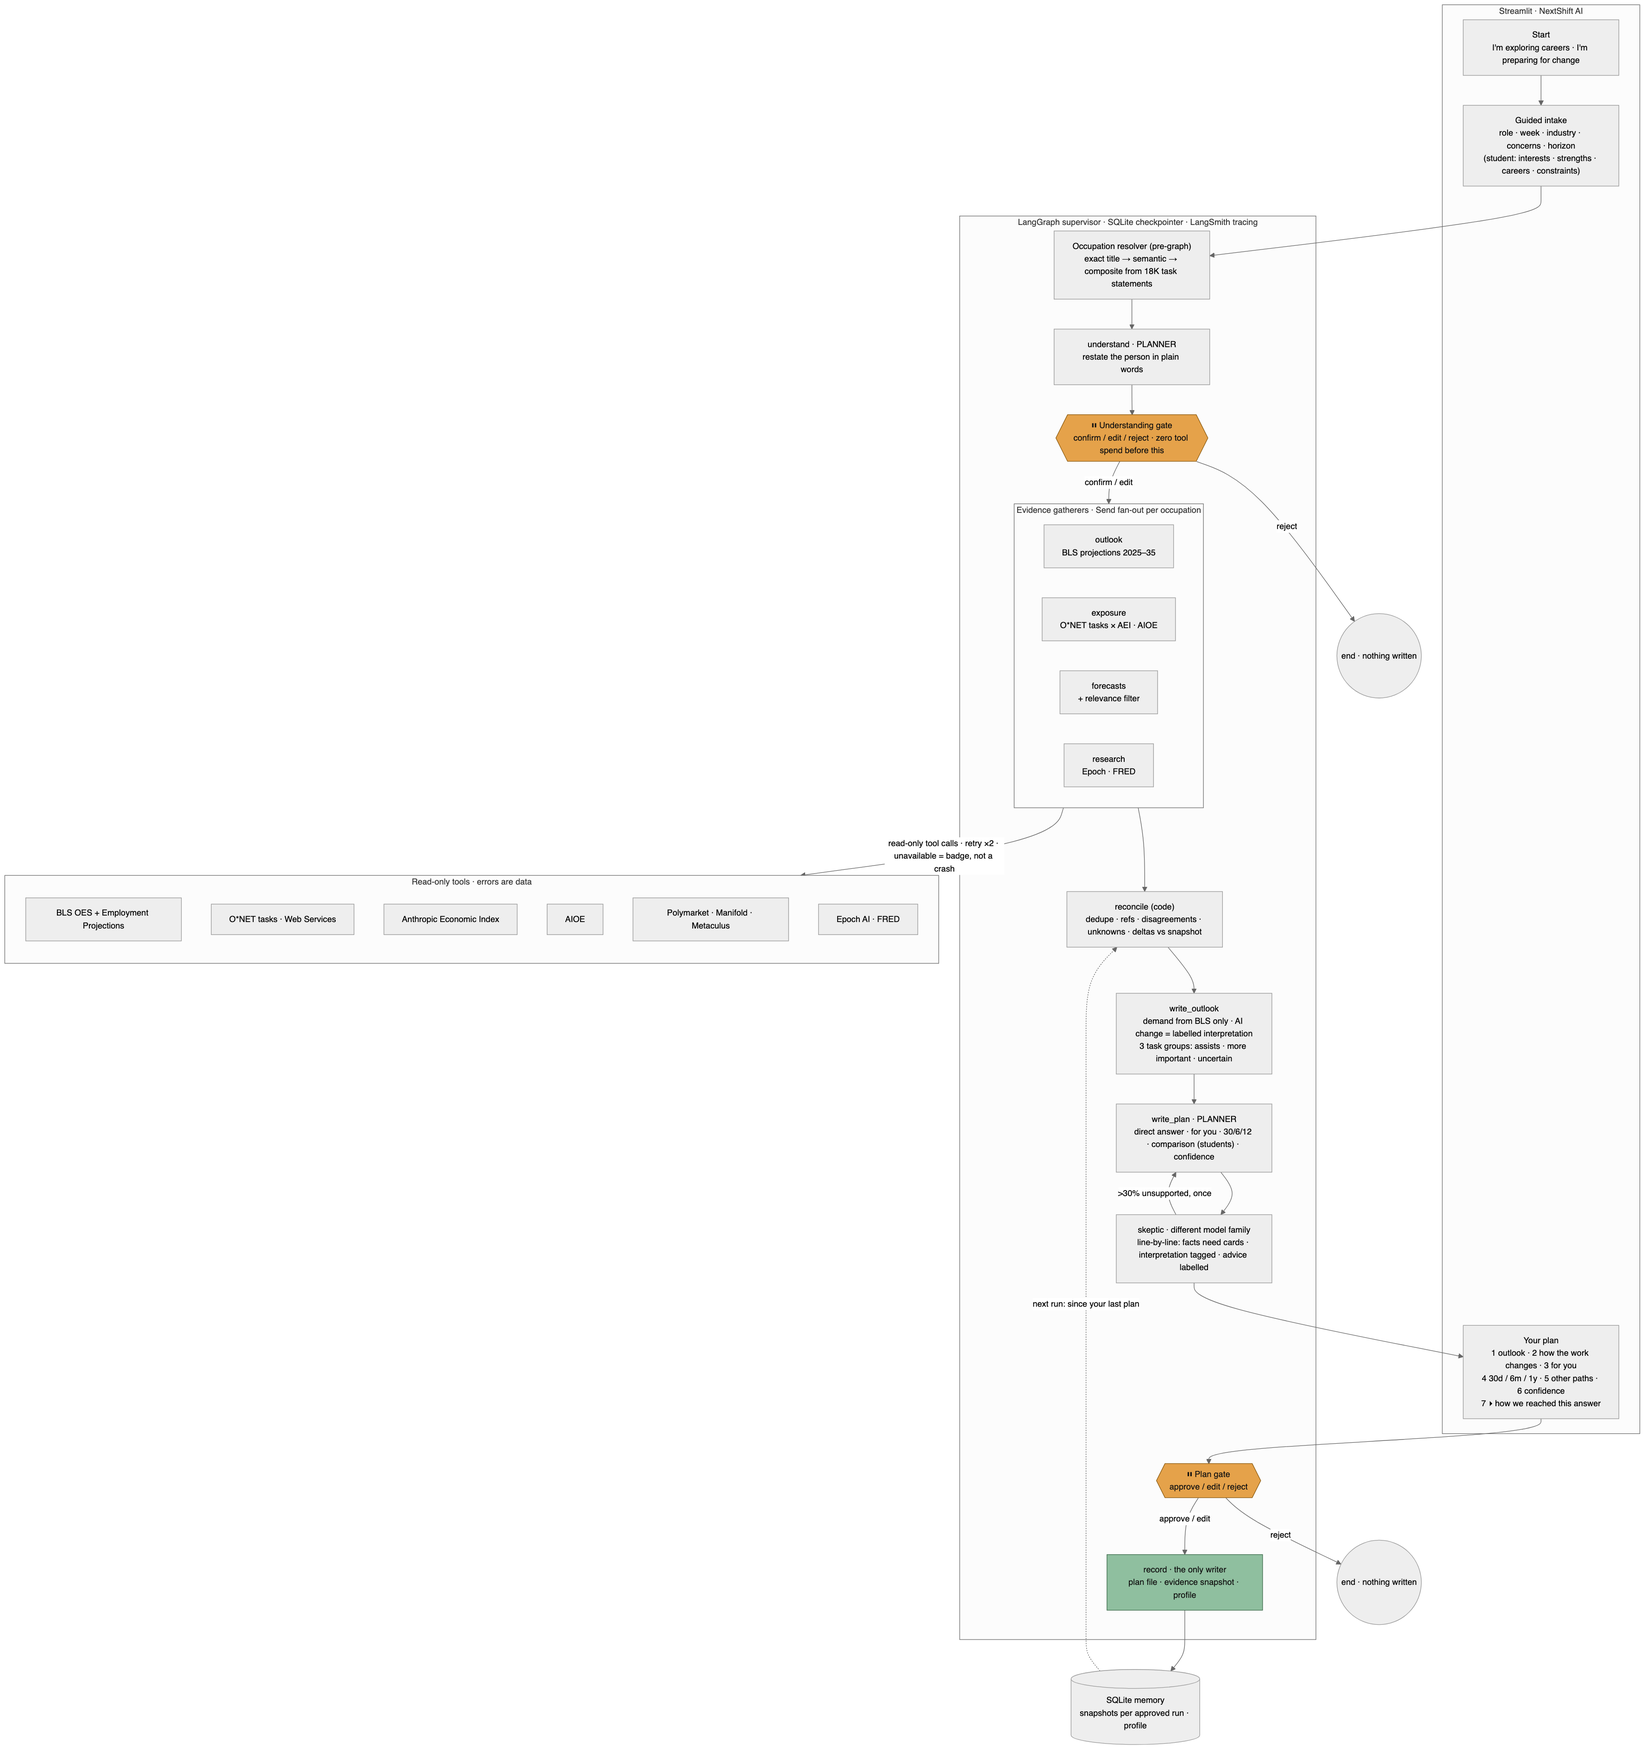
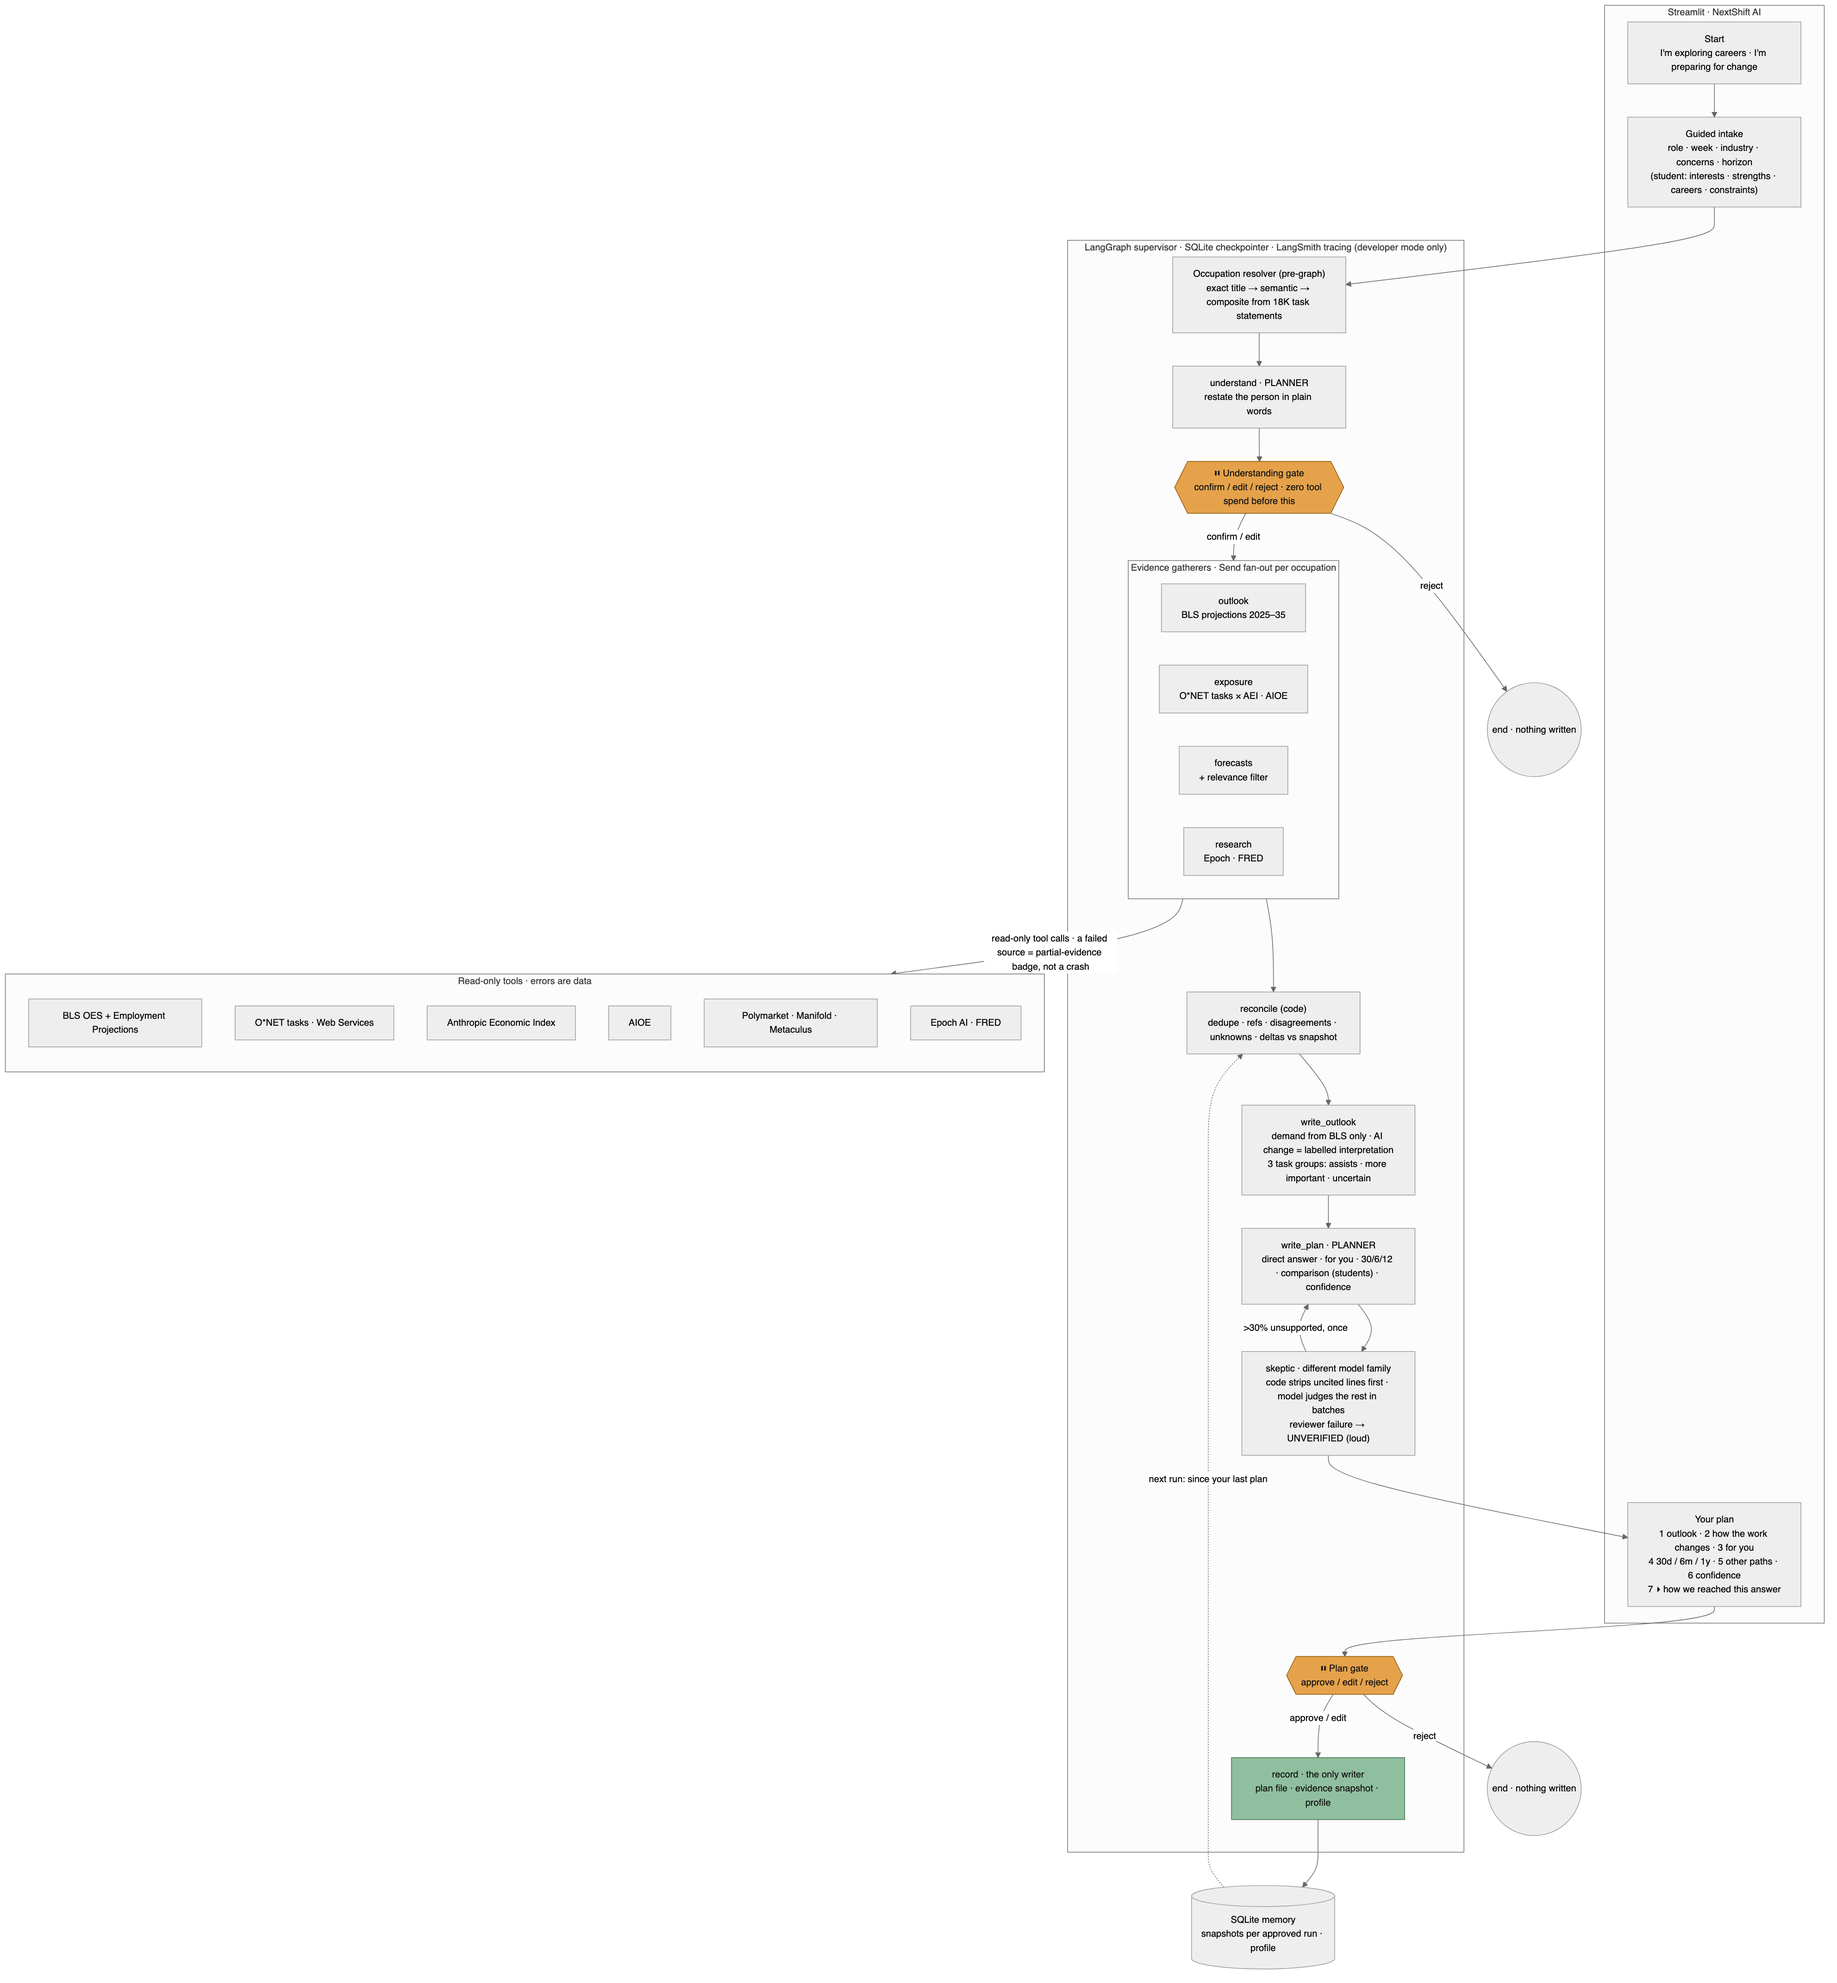
Phase 0: accurate privacy sentence in interview; archive scenario-tree diagram; correct and regenerate architecture diagrams

diff --git a/ui/student_ui.py b/ui/student_ui.py
@@ -44,7 +44,7 @@ def screen_interview(S):
     st.markdown("<span class='kicker' style='color:%s'>Exploring careers</span>" % C["student"], unsafe_allow_html=True)
     if p["turn"] == 1:
         st.markdown("## Let's figure out what kinds of work might fit you.")
-        st.markdown(f"<p class='muted'>You don't need to know what career you want yet. I'll ask one question at a time — about 8 to 12 — and then show you what I understood before suggesting anything.<br><span class='small'>{BOUNDARY} Nothing you type is stored until you approve it at the end; a first name is plenty.</span></p>", unsafe_allow_html=True)
+        st.markdown(f"<p class='muted'>You don't need to know what career you want yet. I'll ask one question at a time — about 8 to 12 — and then show you what I understood before suggesting anything.<br><span class='small'>{BOUNDARY} Nothing is added to your saved record until you approve it at the end; while you work, your answers are kept in a resumable session file on this computer. A first name is plenty.</span></p>", unsafe_allow_html=True)
     col, side = st.columns([3, 1.3])
     with side:
         st.markdown(f"<span class='small'>Question {p['turn']} of about {p['max_turns']}</span>", unsafe_allow_html=True); st.progress(min(p["turn"] / p["max_turns"], 1.0))

diff --git a/docs/PROJECT_DOC.md b/docs/PROJECT_DOC.md
@@ -1,6 +1,6 @@
 # NextShift AI — Week 3 project documentation
 *Maven · Mastering Agentic AI · Week 3 "Build Your AI Agent" · Judy Darvin · submitted 2026-08-30*
-*Paste into the Google Doc; sections follow the handout's required list (overview · datasets · prompts used · iterations · learnings). Diagram: `design/architecture-diagram.png`. Repo: https://github.com/judy-eapen/nextshift-ai*
+*Paste into the Google Doc; sections follow the handout's required list (overview · datasets · prompts used · iterations · learnings). Diagrams: `design/architecture-diagram.png` (professional) · `design/architecture-student.png` (student interviewer). Repo: https://github.com/judy-eapen/nextshift-ai*
 
 ---
 
@@ -28,7 +28,7 @@
 | **Never does** | Guarantee a job is safe or doomed · state a number not on a card · turn "AI is used for this task today" into "this task is automated" · infer a task "grows" from low AI usage · average disagreeing forecasts · invent a course or product · write anything before the plan gate. |
 | **Human in the loop** | Professional: gate 1 (understanding) before any tool spend; gate 2 (plan) before save. Student: every interview question is an interrupt (answer · not sure · skip · recommend now · ask more · edit earlier), then the understanding gate, reactions, discriminating questions, shortlist choices, exploration and a save gate — seven interrupt kinds on one thread. All are LangGraph `interrupt`s resumed with `Command(resume=…)`. |
 | **When something breaks** | Every tool returns `SourceResult(ok, cards, error, unknowns)` — never raises. Retry ×2 with backoff; then the source is marked *unavailable* and the plan carries a "Partial evidence" badge. No forecast → a cited *unknown*, never a number. Reviewer model down → citation-only check, flagged in the UI. Budget: 40 tool calls / $1. |
-| **How I know it worked** | 13-case golden set, both journeys, run end to end through both gates: ≥N cards, zero uncited factual lines, correct demand reading, unknowns/disagreements surfaced where expected, no write before approval, <10 min — plus a 5-point answer-quality rubric judged by the reviewer model (answers every concern · facts kept apart from interpretation · no guarantees · no invented products · concrete 30-day actions). **Result: 13/13 after two prompt fixes; median ~3 min; ~$0.01 per plan.** |
+| **How I know it worked** | 12-case professional golden set plus a 24-case student sweep, both journeys, run end to end through both gates: ≥N cards, zero uncited factual lines, correct demand reading, unknowns/disagreements surfaced where expected, no write before approval, <10 min — plus a 5-point answer-quality rubric judged by the reviewer model (answers every concern · facts kept apart from interpretation · no guarantees · no invented products · concrete 30-day actions). **Result: professional 12/12 after two prompt fixes (median ~3 min; ~$0.01 per plan); student 24/24 (median ~9–10 min; ~$0.07 per exploration).** |
 
 ## 3. Architecture
 
@@ -81,7 +81,7 @@ Offline join: `data/processed/landscape.parquet` — 867 occupations × outlook 
 | 7 | Scenario tree as the result | Users couldn't find the answer | Answer-first plan; forecasts demoted to conditional context in §6 |
 | 8 | Worldview gate (edit forecast anchors) | Asked the user to approve concepts they don't have | Understanding gate: confirm what the agent understood *about them*, before any tool spend |
 | 9 | Reviewer stripped 52% of the student plan | Bug: refs above `c99` didn't match a 2-digit regex | Fixed; strip rate fell to 0–3% |
-| 10 | Eval rubric said 30-day plans weren't actionable | Judge saw only the first 6,000 chars — never reached §4 | Pass the whole plan to the judge; 13/13 |
+| 10 | Eval rubric said 30-day plans weren't actionable | Judge saw only the first 6,000 chars — never reached §4 | Pass the whole plan to the judge; all cases pass |
 | 11 | Student intake as a 4-turn form asking for careers | Students who don't know were stuck | Adaptive interviewer: code picks the goal by coverage gap and contradictions, model words the question |
 | 12 | Question writer told to "build on what they said" | Riffed on one moment for eight turns; constraints never asked | Topic lock: base question per goal, ≤8-word lead-in |
 | 13 | Reviewer judged a Markdown shadow while the UI showed the structured object | Removed claims could still appear on screen | Structured review: flatten → judge → delete in the object the UI renders; export generated afterwards |
@@ -99,11 +99,11 @@ Offline join: `data/processed/landscape.parquet` — 867 occupations × outlook 
 
 ## 8. Evaluation results (evals/results/)
 
-**Student journey (24 cases, simulated students):** see `evals/student_golden.json` — no career ideas · three careers in mind · "I don't know" ×5 · recommend early · ask for more · edit the summary · correct an earlier answer · strict cost constraint · likes a field but dislikes its daily work · claimed vs demonstrated strengths · composite role · declining demand with many openings · BLS unavailable · Polymarket down · reviewer model down · reject profile · reject save · no write before approval · removed content absent from the UI · feedback changes the shortlist · concrete experiments · exploration preserves decisions · max turns · professional regression. Result: ****24/24** across the sweeps (17 in the parallel sweep on current code, 7 rerun serially after a process stall; every case passes its deterministic checks and, where judged, the 5-point rubric). Median ≈ 9–10 min and ≈ $0.07 per full exploration when run alone; parallel runs share one Nebius endpoint and slow each other down — run evals with `EVAL_WORKERS=1` for timing.** (≈ $0.06 and 8–10 min per full exploration).
+**Student journey (24 cases, simulated students):** see `evals/student_golden.json` — no career ideas · three careers in mind · "I don't know" ×5 · recommend early · ask for more · edit the summary · correct an earlier answer · strict cost constraint · likes a field but dislikes its daily work · claimed vs demonstrated strengths · composite role · declining demand with many openings · BLS unavailable · Polymarket down · reviewer model down · reject profile · reject save · no write before approval · removed content absent from the UI · feedback changes the shortlist · concrete experiments · exploration preserves decisions · max turns · professional regression. Result: **24/24** across the sweeps (17 in the parallel sweep on current code, 7 rerun serially after a process stall; every case passes its deterministic checks and, where judged, the 5-point rubric). Median ≈ 9–10 min and ≈ $0.07 per full exploration when run alone; parallel runs share one Nebius endpoint and slow each other down — run evals with `EVAL_WORKERS=1` for timing.
 
 **Professional journey (12 cases):**
 
-13 cases · both journeys · both gates · failure injection · memory. First pass 9/13; after fixing the ref regex, the rubric truncation, and the plan prompt: **13/13**. Median ≈ 3 min per plan, ≈ $0.01 per plan on open-weight models. Details: `evals/golden.json`, `evals/run_golden.py`, `graph/DESIGN.md`.
+12 cases · both gates · failure injection · memory (originally 13; g05, the old student 3-way comparison, was retired when the interviewer superseded it). First pass 9/13; after fixing the ref regex, the rubric truncation, and the plan prompt: **12/12**. Median ≈ 3 min per plan, ≈ $0.01 per plan on open-weight models. Details: `evals/golden.json`, `evals/run_golden.py`, `graph/DESIGN.md`.
 
 ## 9. Roadmap (one slide)
 

diff --git a/GOOD_MORNING.md b/GOOD_MORNING.md
@@ -9,7 +9,7 @@ You approved the student redesign ("do all of it"). It's built, both journeys, a
 - **Student interviewer:** one question at a time; code picks the next goal from coverage gaps and contradictions, the model only words it; five actions (I'm not sure · Skip · Recommend now · Ask me more · Edit an earlier answer); stops at 8–12 substantive answers or 14 max; nine-section *"Here's what I understand about you"* gate before any data is gathered.
 - **Candidates → evidence → cards:** 8–10 directions in three groups (+ *Your ideas, reconsidered* when the student named careers), each with a rationale citing the student's own words `[p:field:i]`; resolved to real occupations (composites capped at two); BLS outlook, entry education, task groups; structured review per card; **deterministic "practical mismatch"** lines when entry education exceeds the student's stated limit.
 - **Reactions → discriminators → shortlist → deep dive → what-ifs → save.** Ten-section deep dive with *Test this career before committing*; nothing written until the save gate.
-- **Evals:** professional 12/12 (g05 retired — superseded by the interviewer); student 24-case sweep with simulated students: ****24/24** across the sweeps (17 in the parallel sweep on current code, 7 rerun serially after a process stall; every case passes its deterministic checks and, where judged, the 5-point rubric). Median ≈ 9–10 min and ≈ $0.07 per full exploration when run alone; parallel runs share one Nebius endpoint and slow each other down — run evals with `EVAL_WORKERS=1` for timing.**.
+- **Evals:** professional 12/12 (g05 retired — superseded by the interviewer); student 24-case sweep with simulated students: **24/24** across the sweeps (17 in the parallel sweep on current code, 7 rerun serially after a process stall; every case passes its deterministic checks and, where judged, the 5-point rubric). Median ≈ 9–10 min and ≈ $0.07 per full exploration when run alone; parallel runs share one Nebius endpoint and slow each other down — run evals with `EVAL_WORKERS=1` for timing.
 
 ## Your Sunday (~3 h)
 1. **Click through the student door yourself** (10 min). Try "I'm not sure" and "Edit an earlier answer". Tell me any wording that jars.

diff --git a/docs/VIDEO_SCRIPT.md b/docs/VIDEO_SCRIPT.md
@@ -14,4 +14,4 @@
 | 3:30 | §6 Confidence · open *7 How we reached this answer* | **"Strong evidence, interpretation, unknowns, disagreement — forecasters put 22% to 39% on AGI by 2030, shown side by side, never averaged. And all the machinery is here if you want it: sources, the reviewer's removed lines, the evidence cards."** |
 | 3:55 | *Start over* → **I'm exploring careers**. Answer two or three questions live ("editing videos for friends, organizing the charity drive…"), press **I'm not sure** once, then **Recommend careers now** → understanding gate → (cut to pre-recorded results) | **"Second door: a student who has no idea what they want. It interviews — one question at a time, picking the next question from what's still unclear — then shows what it understood before it touches any data. Then ten directions in three groups, each with the student's own words as the reason, official outlook, education, and an honest 'possible mismatch'. The student reacts, it narrows to a shortlist, and the deep dive ends with cheap ways to test the career before committing."** |
 | 4:30 | Plan gate → *Approve & save* → saved screen | **"Nothing is written until I approve. Save, and the next run shows what changed."** |
-| 4:40 | Architecture diagram | **"LangGraph supervisor, 14 nodes, two interrupts, four parallel gatherers, ten tools, SQLite memory, a reviewer on a different model family. Thirteen end-to-end evals — both journeys, both gates, injected failures — pass. Roadmap: adjacent careers from O\*NET skill similarity, learning paths, alerts when a snapshot moves. Runs entirely on open-weight models for about a cent a plan."** |
+| 4:40 | Architecture diagram | **"LangGraph supervisor, 14 nodes, two interrupts, four parallel gatherers, ten tools, SQLite memory, a reviewer on a different model family. Thirty-six end-to-end evals — twelve professional, twenty-four student with simulated students; both gates, injected failures — all pass. Roadmap: adjacent careers from O\*NET skill similarity, learning paths, alerts when a snapshot moves. Runs entirely on open-weight models for about a cent a plan."** |

diff --git a/graph/DESIGN.md b/graph/DESIGN.md
@@ -130,7 +130,7 @@ No multipliers. Three groups from *observed* penetration: **AI will probably ass
 ## Citation discipline
 Facts cite `[cNN]`; unknowns cite `[uNN]`; interpretive lines add `[interpretation]`; practical advice with no factual claim carries `[advice]` and is kept unchecked; any line with a number must cite. The skeptic (Qwen3-Next-80B Thinking) reviews `plan_md` line by line; >30% stripped → one rewrite → escalation banner.
 
-## Evaluation (evals/golden.json, 13 cases)
+## Evaluation (evals/golden.json, 12 cases — g05 retired 2026-08-29, superseded by the student interviewer; student journey: evals/student_golden.json, 24 cases)
 Professional clean match · PM composite · "Head of Product" needing clarification · low-exposure nurses (no fear words) · student 3-way comparison (must surface Graphic Designers −1.7%) · occupation with no projection · Polymarket disabled · conflicting forecasts · edit at gate 1 changes horizon · reject at gate 1 (0 tool calls) · reject at gate 2 (no file, no snapshot) · broken skeptic model (fallback flagged) · second run computes deltas. Plus a 5-point answer-quality rubric judged by the reviewer model.
 
 ---
